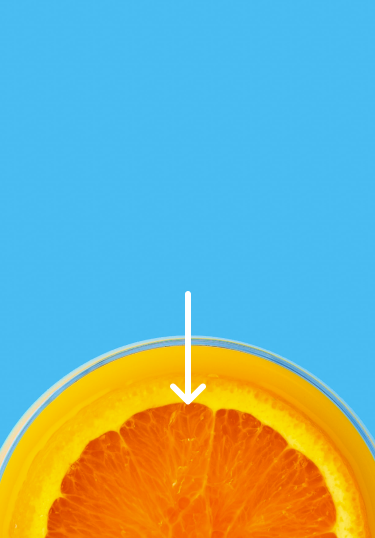
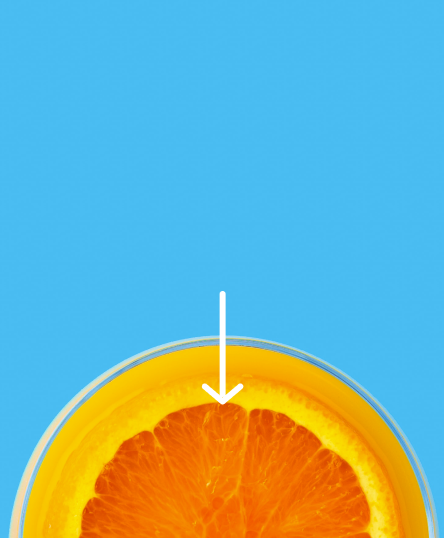
second init

diff --git a/css/styles.css b/css/styles.css
@@ -56,8 +56,8 @@ img {
 .container {
   width: 100%;
   max-width: 1500px;
-  padding-left: 30px;
-  padding-right: 30px;
+  /* padding-left: 30px;
+  padding-right: 30px; */
   margin-left: auto;
   margin-right: auto;
 }
@@ -65,6 +65,9 @@ img {
 
 header{
   background-color: #4ABDF2;
+}
+.header .container{
+  padding: 0 30px;
 }
 .header__inner{
   display: flex;
@@ -79,11 +82,14 @@ header{
   position: absolute;
   margin-top: 350px;
   left: 50%;
-  transform: translateX(-50%);
-  display: none;
+  transform-origin: top right;
+  transform: translateX(-50%) scale(0);
+  transition: 0.5s;
+  display: block;
 }
 .site-nav--open{
-  display: block;
+  /* display: block; */
+  transform: translateX(-50%)  scale(1);
 }
 .site-nav::before{
   content: '';
@@ -106,6 +112,7 @@ header{
   align-items: center;
   justify-content: center;
   padding: 0;
+  cursor: pointer;
 }
 .hamburger span{
   width: 100%;
@@ -165,12 +172,30 @@ header{
 .site-nav__item{
   margin-bottom: 32px;
 }
+.site-nav__item:last-child .site-nav__link{
+  color: var(--headers-color);
+  font-weight: bold;
+  font-size: 15px;
+  line-height: 25px;
+  letter-spacing: -0.1;
+  text-transform: uppercase;
+  border-radius: 28px;
+  background: #FBD600;
+  padding: 16px 32px;
+  font-family: var(--second-font);
+}
+
+
+
+
+/* Hero */
+
 
 .hero{
   background: #4ABDF2 url(../img/hero-bg.png);
-  background-position: 0 -100px;
+  background-position: center bottom;
   background-repeat: no-repeat;
-  padding-bottom: 200px;
+  padding-bottom: 250px;
 }
 .hero__header{
   margin-top: 80px;
@@ -182,4 +207,97 @@ header{
   letter-spacing: 6.25px;
   text-transform: uppercase;
   color: var(--headers-color-white);
+}
+
+@media only screen and (min-width: 768px) {
+  .header__inner{
+    align-items: center;
+    margin: 40px 0;
+  }
+  .site-nav{
+    margin-top: 0;
+    width: auto;
+    position: static;
+    transform: scale(1);
+    background-color: transparent;
+  }
+  .site-nav::before{
+    display: none;
+  }
+  .hamburger{
+    display: none;
+  }
+  .site-nav__list{
+    flex-direction: row;
+    padding: 0;
+    align-items: center;
+    justify-content: center;
+  }
+  .site-nav__item{
+    margin-bottom: 0;
+    margin-right: 47px;
+  }
+  .site-nav__item:last-child{
+    margin-right: 0;
+  }
+  .site-nav__link{
+    color: var(--headers-color-white);
+  }
+  .site-nav__item:last-child .site-nav__link{
+    color: var(--headers-color-white);
+    background: rgba(255, 255, 255, 0.25);
+  }
+}
+
+
+@media only screen and (min-width: 1024px) {
+  .hero{
+    padding-bottom: 450px;
+    background-image: url('../img/herobg_desktop.png');
+  }
+}
+
+
+
+/* Content */
+.content__item{
+  display: flex;
+  flex-direction: column-reverse;
+}
+.content__img img{
+  width: 100%;
+}
+.item__text{
+  display: flex;
+  flex-direction: column;
+  align-items: center;
+  padding: 0 24px;
+}
+.item__header{
+  margin: 0;
+  margin-top: 48px;
+  font-family: var(--second-font);
+  color: var(--headers-color);
+  font-weight: 900;
+  font-size: 32px;
+  line-height: 39px;
+  text-align: center;
+  letter-spacing: -0.25;
+}
+.item__description{
+  text-align: center;
+  margin-top: 24px;
+  font-size: 18px;
+  line-height: 30px;
+  letter-spacing: -0.12;
+}
+
+@media only screen and (min-width: 768px) {
+  .content__item{
+    display: flex;
+    flex-direction: row;
+  }
+  .content__item > *{
+    flex: 1;
+  }
 }

diff --git a/index.html b/index.html
@@ -48,6 +48,21 @@
       <h2 class="hero__header">We are creatives</h2>
     </div>
   </section>
+
+
+  <section class="content">
+    <h2 class="visually-hidden">Hechnima ))</h2>
+    <section class="content__item item">
+      <div class="item__text">
+        <h2 class="item__header">Transform your brand</h2>
+        <p class="item__description">We are a full-service creative agency specializing in helping brands grow fast. Engage your clients through compelling visuals that do most of the marketing for you.</p>
+        <a class="item__link" href="#">Learn more</a>
+      </div>
+      <div class="content__img">
+        <img src="img/egg.jpg" alt="Item's image" width="375" height="312">
+      </div>
+    </section>
+  </section>
   <script src="js/main.js"></script>
 </body>
 </html>
